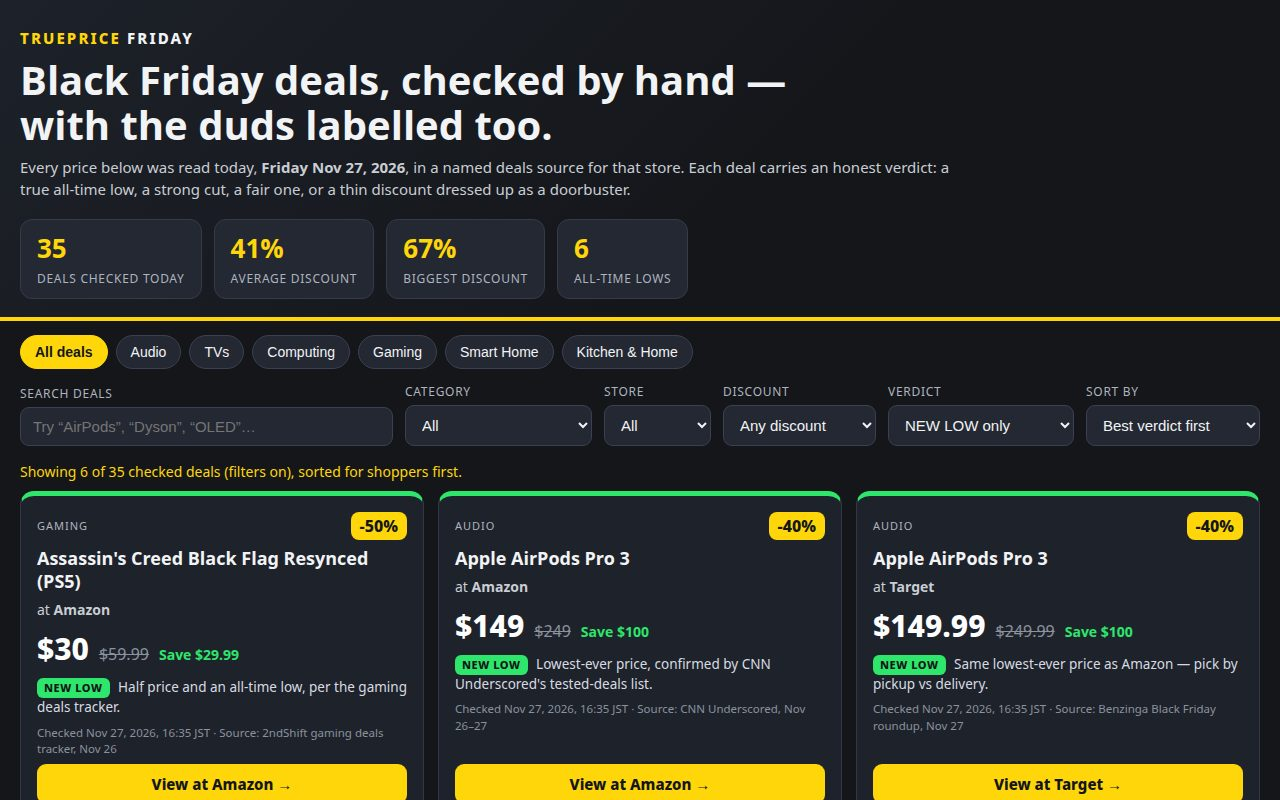
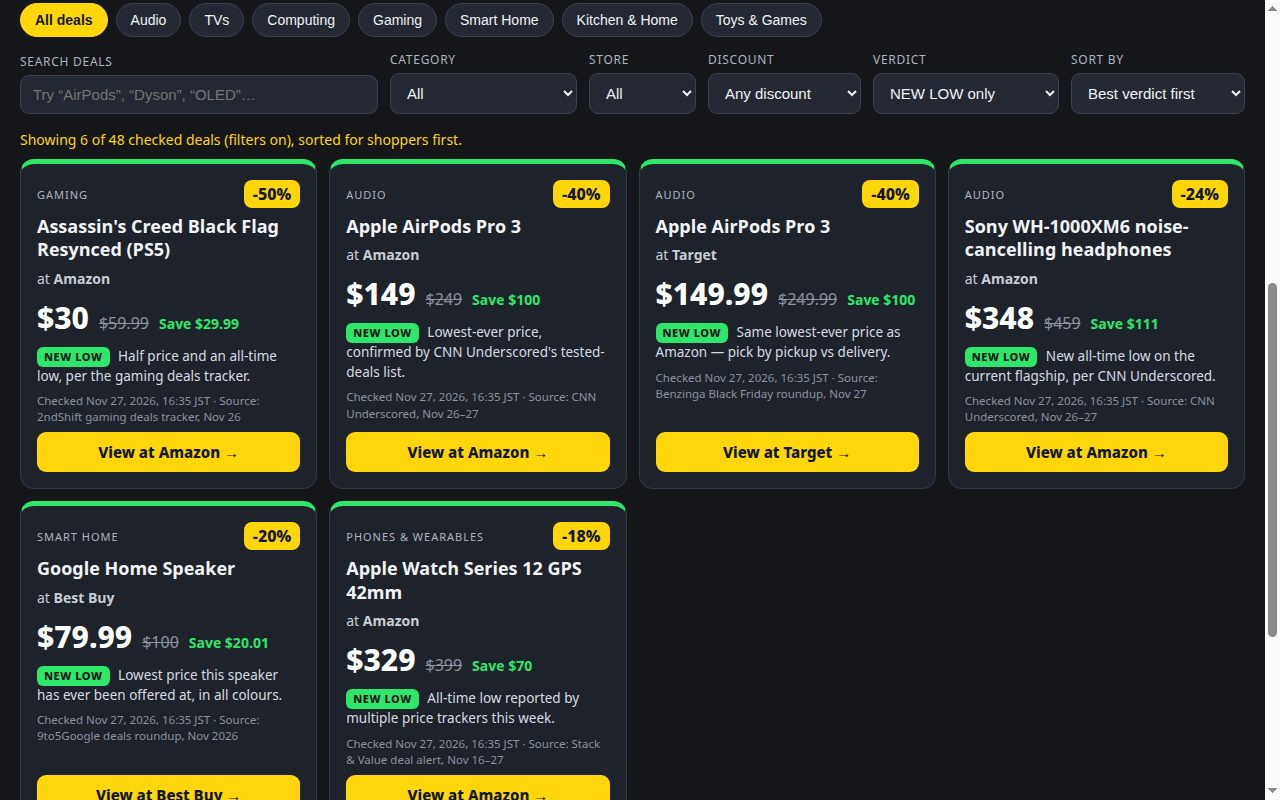
v2 weekend edition: 48 deals (13 re-checked Nov 28), featured top-cuts strip, compact hero, Toys & Games, Cyber Monday note

diff --git a/app/deals.js b/app/deals.js
@@ -5,6 +5,7 @@
 // verdict: "new-low" | "strong" | "fair" | "weak" — see logic.js for labels.
 
 export const CHECKED_AT = "Nov 27, 2026, 16:35 JST";
+export const CHECKED_AT_V2 = "Nov 28, 2026, 12:20 JST";
 
 export const DEALS = [
   { name: "Beats Studio Pro wireless headphones", store: "Walmart", cat: "Audio",
@@ -182,4 +183,71 @@ export const DEALS = [
     why: "$205 off the benchmark home espresso machine.",
     url: "https://www.amazon.com/s?k=Breville+Barista+Express",
     source: "Popular Science Amazon BF roundup, Nov 24–27" },
+  // ---- v2 additions: re-checked Nov 28, 2026 (Black Friday weekend /
+  // Cyber Monday run-up) in the sources named on each card. ----
+  { name: "Hisense 98-inch QD5 4K TV", store: "Best Buy", cat: "TVs",
+    price: 799.99, was: 2499.99, verdict: "strong", checked: "v2",
+    why: "68% off — a wall-sized 98-inch set under $800; Best Buy's loudest doorbuster, ends today Nov 28.",
+    url: "https://www.bestbuy.com/site/searchpage.jsp?st=Hisense+98+inch+QD5",
+    source: "The Shortcut BF deals list, checked Nov 27" },
+  { name: "Amazon Fire TV Stick 4K", store: "Amazon", cat: "Smart Home",
+    price: 19.99, was: 59.99, verdict: "strong", checked: "v2",
+    why: "67% off — the cheapest 4K streamer we verified all weekend.",
+    url: "https://www.amazon.com/s?k=Fire+TV+Stick+4K",
+    source: "The Shortcut BF deals list, checked Nov 27" },
+  { name: "Samsung Galaxy S26 Ultra 256GB", store: "Amazon", cat: "Phones & Wearables",
+    price: 949.99, was: 1399.99, verdict: "strong", checked: "v2",
+    why: "$450 off the flagship Ultra with no trade-in — the biggest phone saving we verified.",
+    url: "https://www.amazon.com/s?k=Samsung+Galaxy+S26+Ultra+256GB",
+    source: "The Shortcut BF deals list, checked Nov 27" },
+  { name: "Amazon Echo Time smart clock", store: "Amazon", cat: "Smart Home",
+    price: 99.99, was: 199.99, verdict: "fair", checked: "v2",
+    why: "Half price, but Echo list prices were raised this year — $99.99 is good, not historic.",
+    url: "https://www.amazon.com/s?k=Amazon+Echo+Time",
+    source: "The Shortcut BF deals list, checked Nov 27" },
+  { name: "PlayStation DualSense Edge controller", store: "Amazon", cat: "Gaming",
+    price: 169, was: 199.99, verdict: "fair", checked: "v2",
+    why: "Only 15% off Sony's pro controller — real, but it has matched this before.",
+    url: "https://www.amazon.com/s?k=PlayStation+DualSense+Edge",
+    source: "The Shortcut BF deals list, checked Nov 27" },
+  { name: "Amazon Echo Studio smart speaker", store: "Amazon", cat: "Smart Home",
+    price: 159.99, was: 219.99, verdict: "fair", checked: "v2",
+    why: "27% off Amazon's best-sounding Echo; a solid price, not a floor price.",
+    url: "https://www.amazon.com/s?k=Amazon+Echo+Studio",
+    source: "The Shortcut BF deals list, checked Nov 27" },
+  { name: "Meta Quest 3S 128GB VR headset", store: "Walmart", cat: "Gaming",
+    price: 297, was: 349.99, verdict: "fair", checked: "v2",
+    why: "15% off — modest for a headset; Best Buy's 256GB bundle with a gift card may beat it.",
+    url: "https://www.walmart.com/search?q=Meta+Quest+3S+128GB",
+    source: "The Shortcut BF deals list, checked Nov 27" },
+  { name: "Apple iPad 11-inch (A16, 128GB)", store: "Amazon", cat: "Phones & Wearables",
+    price: 379, was: 449, verdict: "fair", checked: "v2",
+    why: "16% off the entry iPad — Apple tablets rarely go deeper outside education pricing.",
+    url: "https://www.amazon.com/s?k=Apple+iPad+11+inch+A16+128GB",
+    source: "AppleScoop buy-or-wait guide, Nov 2026" },
+  { name: "Apple AirTag (2nd gen) 4-pack", store: "Amazon", cat: "Phones & Wearables",
+    price: 79, was: 99, verdict: "fair", checked: "v2",
+    why: "20% off — $19.75 per tracker; singles deals at $18 beat it per unit if you need one.",
+    url: "https://www.amazon.com/s?k=Apple+AirTag+4+pack",
+    source: "AppleScoop buy-or-wait guide, Nov 2026" },
+  { name: "Stanley Quencher H2.0 40 oz tumbler (Rose Quartz)", store: "Amazon", cat: "Kitchen & Home",
+    price: 22.50, was: 45, verdict: "strong", checked: "v2",
+    why: "Exactly half price on the viral 40 oz tumbler, in the Rose Quartz colour.",
+    url: "https://www.amazon.com/s?k=Stanley+Quencher+H2.0+40+oz+Rose+Quartz",
+    source: "PostThisDeal verified picks, Nov 27" },
+  { name: "LEGO Bluey: Bluey's Beach set", store: "Walmart", cat: "Toys & Games",
+    price: 15, was: 30, verdict: "strong", checked: "v2",
+    why: "Half price on a current LEGO set — LEGO's own store rarely matches Walmart here.",
+    url: "https://www.walmart.com/search?q=LEGO+Bluey+Blueys+Beach",
+    source: "Passionate Penny Pincher BF roundup, Nov 27" },
+  { name: "Razor RipRider 360 trike", store: "Walmart", cat: "Toys & Games",
+    price: 48, was: 130, verdict: "strong", checked: "v2",
+    why: "63% off the caster trike — one of the deepest toy cuts we verified.",
+    url: "https://www.walmart.com/search?q=Razor+RipRider+360",
+    source: "Passionate Penny Pincher BF roundup, Nov 27" },
+  { name: "Ninja Creami ice cream maker", store: "Kohl's", cat: "Kitchen & Home",
+    price: 103.89, was: 250, verdict: "strong", checked: "v2",
+    why: "58% off at Kohl's — the viral ice-cream maker well under its usual $170 sale price.",
+    url: "https://www.kohls.com/search.jsp?search=Ninja+Creami",
+    source: "Passionate Penny Pincher BF roundup, Nov 27" },
 ];

diff --git a/app/style.css b/app/style.css
@@ -1,14 +1,24 @@
 /* style.css — TruePrice Friday: charcoal + signal yellow, big prices. */
 * { box-sizing: border-box; }
 body { margin: 0; font-family: "Avenir Next", "Segoe UI", system-ui, sans-serif; background: #14161a; color: #f2f3f5; }
-.hero { padding: 28px 20px 18px; background: linear-gradient(135deg, #1d2129 0%, #14161a 60%); border-bottom: 4px solid #ffd60a; }
+.hero { padding: 18px 20px 12px; background: linear-gradient(135deg, #1d2129 0%, #14161a 60%); border-bottom: 4px solid #ffd60a; }
 .brand { margin: 0; font-weight: 800; letter-spacing: .14em; color: #ffd60a; font-size: 15px; }
 .brand span { color: #f2f3f5; }
-.hero h1 { margin: 10px 0 8px; font-size: clamp(24px, 4.5vw, 40px); line-height: 1.12; max-width: 20em; }
-.sub { margin: 0; max-width: 62em; color: #c9cdd4; font-size: 15px; line-height: 1.5; }
-.stats { display: flex; flex-wrap: wrap; gap: 12px; margin-top: 18px; }
-.stat { background: #232833; border: 1px solid #343b49; border-radius: 12px; padding: 10px 16px; min-width: 130px; }
-.stat strong { display: block; font-size: 26px; color: #ffd60a; }
+.brand .edition { color: #14161a; background: #ffd60a; border-radius: 6px; padding: 2px 8px; letter-spacing: .05em; margin-left: 8px; }
+.hero h1 { margin: 8px 0 6px; font-size: clamp(23px, 4vw, 34px); line-height: 1.12; max-width: 24em; }
+.sub { margin: 0; max-width: 62em; color: #c9cdd4; font-size: 14px; line-height: 1.45; }
+.stats { display: flex; flex-wrap: wrap; gap: 10px; margin-top: 12px; }
+.stat { background: #232833; border: 1px solid #343b49; border-radius: 12px; padding: 7px 14px; min-width: 120px; }
+.stat strong { display: block; font-size: 23px; color: #ffd60a; }
+.featured { padding: 14px 20px 4px; }
+.feat-head { margin: 0 0 10px; font-size: 19px; color: #ffd60a; letter-spacing: .02em; }
+.feat-grid { display: grid; grid-template-columns: repeat(auto-fit, minmax(280px, 1fr)); gap: 12px; }
+.feat { background: linear-gradient(160deg, #2a2113 0%, #1e222b 55%); border: 2px solid #ffd60a; border-radius: 14px; padding: 14px 16px; display: flex; flex-direction: column; gap: 6px; }
+.feat-top { display: flex; justify-content: space-between; align-items: center; }
+.feat-name { margin: 0; font-size: 19px; line-height: 1.25; }
+.feat .now { font-size: 34px; }
+.feat .go { margin-top: auto; }
+.cm-note { margin: 12px 0 2px; font-size: 13.5px; color: #c9cdd4; line-height: 1.5; background: #1e222b; border: 1px dashed #ffd60a; border-radius: 10px; padding: 10px 14px; }
 .stat span { font-size: 12px; color: #aeb4bf; text-transform: uppercase; letter-spacing: .06em; }
 .chips { display: flex; flex-wrap: wrap; gap: 8px; padding: 14px 20px 0; }
 .chips button { background: #232833; color: #f2f3f5; border: 1px solid #3a4152; border-radius: 999px; padding: 8px 14px; font-size: 14px; cursor: pointer; }
@@ -19,7 +29,7 @@ body { margin: 0; font-family: "Avenir Next", "Segoe UI", system-ui, sans-serif;
 .controls .search-label { flex: 1 1 240px; }
 .controls input, .controls select { background: #232833; color: #f2f3f5; border: 1px solid #3a4152; border-radius: 9px; padding: 10px 12px; font-size: 15px; text-transform: none; letter-spacing: 0; }
 .result-line { padding: 0 20px; color: #ffd60a; font-size: 14px; margin: 2px 0 10px; }
-.grid { display: grid; grid-template-columns: repeat(auto-fill, minmax(300px, 1fr)); gap: 14px; padding: 0 20px 20px; }
+.grid { display: grid; grid-template-columns: repeat(auto-fill, minmax(272px, 1fr)); gap: 12px; padding: 0 20px 20px; }
 .card { background: #1e222b; border: 1px solid #313847; border-top: 5px solid #6b7280; border-radius: 14px; padding: 16px; display: flex; flex-direction: column; gap: 7px; }
 .card.verdict-new-low { border-top-color: #2ee66b; }
 .card.verdict-strong { border-top-color: #38bdf8; }
@@ -51,6 +61,7 @@ body { margin: 0; font-family: "Avenir Next", "Segoe UI", system-ui, sans-serif;
 footer { padding: 0 20px 26px; color: #6f7684; font-size: 12px; }
 @media (max-width: 560px) {
   .grid { grid-template-columns: 1fr; padding: 0 12px 14px; }
+  .featured { padding: 12px 12px 2px; }
   .controls, .chips, .hero { padding-left: 12px; padding-right: 12px; }
   .guide { margin: 6px 12px 14px; }
   .now { font-size: 27px; }

diff --git a/app/index.html b/app/index.html
@@ -3,16 +3,22 @@
 <head>
 <meta charset="utf-8">
 <meta name="viewport" content="width=device-width, initial-scale=1">
-<title>TruePrice Friday — Real Black Friday Deals, Checked Nov 27, 2026</title>
+<title>TruePrice Friday — Real Black Friday Deals, Checked Nov 27–28, 2026</title>
 <link rel="stylesheet" href="./style.css">
 </head>
 <body>
 <header class="hero">
-  <p class="brand">TRUEPRICE <span>FRIDAY</span></p>
+  <p class="brand">TRUEPRICE <span>FRIDAY</span> <span class="edition">WEEKEND EDITION — UPDATED SAT NOV 28</span></p>
   <h1>Black Friday deals, checked by hand — with the duds labelled too.</h1>
-  <p class="sub">Every price below was read today, <strong>Friday Nov 27, 2026</strong>, in a named deals source for that store. Each deal carries an honest verdict: a true all-time low, a strong cut, a fair one, or a thin discount dressed up as a doorbuster.</p>
+  <p class="sub">Every price was read on <strong>Nov 27–28, 2026</strong> in a named deals source for that store. Each deal carries an honest verdict: a true all-time low, a strong cut, a fair one, or a thin discount dressed up as a doorbuster.</p>
   <div class="stats" id="stats"></div>
 </header>
+
+<section class="featured" aria-label="Top verified deals">
+  <h2 class="feat-head">★ Top verified cuts right now</h2>
+  <div class="feat-grid" id="featured"></div>
+  <p class="cm-note">Cyber Monday is <strong>Monday Nov 30</strong>: most prices below run through the weekend, and Amazon, Walmart and Best Buy drop fresh online-only deals at midnight — re-check the store link on each card before you pay.</p>
+</section>
 
 <nav class="chips" aria-label="Categories">
   <button data-cat="All">All deals</button>
@@ -22,6 +28,7 @@
   <button data-cat="Gaming">Gaming</button>
   <button data-cat="Smart Home">Smart Home</button>
   <button data-cat="Kitchen &amp; Home">Kitchen &amp; Home</button>
+  <button data-cat="Toys &amp; Games">Toys &amp; Games</button>
 </nav>
 
 <section class="controls" aria-label="Search and filters">
@@ -68,7 +75,7 @@
     <p><span class="badge b-fair">FAIR</span> A genuine saving, but similar prices recur through the year.</p>
     <p><span class="badge b-weak">THIN DEAL</span> The percentage looks loud but the saving is small — read the evidence before buying.</p>
   </div>
-  <p class="fineprint">Prices checked Nov 27, 2026, 16:35 JST from the source named on each card (CNN Underscored, Benzinga, Popular Science, Best Buy's Black Friday release, 9to5Google, UltraGamerZ, 2ndShift, Tom's Guide roundups). Black Friday prices move hourly — the store link on each card opens that store's own search for the product so you can confirm the live price before paying. Cyber Monday is Nov 30, 2026; several of these prices run through then.</p>
+  <p class="fineprint">Prices checked Nov 27, 2026, 16:35 JST and Nov 28, 2026, 12:20 JST from the source named on each card (CNN Underscored, Benzinga, Popular Science, Best Buy's Black Friday release, 9to5Google, UltraGamerZ, 2ndShift, Tom's Guide roundups, The Shortcut, AppleScoop, PostThisDeal, Passionate Penny Pincher). Black Friday prices move hourly — the store link on each card opens that store's own search for the product so you can confirm the live price before paying. Cyber Monday is Nov 30, 2026; several of these prices run through then.</p>
 </section>
 
 <footer>TruePrice Friday — an original, hand-checked deal finder. No prices are scraped live; each was verified by a person (and an agent) on the day shown.</footer>

diff --git a/app/render.js b/app/render.js
@@ -2,7 +2,7 @@
 // All text is built from deals.js data; nothing is fetched.
 
 import { VERDICTS, discountPct, savingUsd, formatUsd } from "./logic.js";
-import { CHECKED_AT } from "./deals.js";
+import { CHECKED_AT, CHECKED_AT_V2 } from "./deals.js";
 
 function esc(s) {
   return String(s).replace(/&/g, "&amp;").replace(/</g, "&lt;").replace(/"/g, "&quot;");
@@ -24,9 +24,24 @@ export function dealCard(deal) {
       <span class="save">Save ${formatUsd(savingUsd(deal))}</span>
     </p>
     <p class="verdict"><span class="badge">${v.label}</span> ${esc(deal.why)}</p>
-    <p class="meta">Checked ${CHECKED_AT} · Source: ${esc(deal.source)}</p>
+    <p class="meta">Checked ${deal.checked === "v2" ? CHECKED_AT_V2 : CHECKED_AT} · Source: ${esc(deal.source)}</p>
     <a class="go" href="${esc(deal.url)}" target="_blank" rel="noopener">View at ${esc(deal.store)} →</a>
   </article>`;
+}
+
+// The three loudest verified cuts, shown as a featured strip above the
+// grid so the first screen carries real deals, not just a headline.
+export function featuredStrip(deals) {
+  const top = deals
+    .filter((d) => d.verdict === "new-low" || d.verdict === "strong")
+    .sort((a, b) => discountPct(b) - discountPct(a))
+    .slice(0, 3);
+  return top.map((deal) => `<article class="feat">
+    <div class="feat-top"><span class="cat">${esc(deal.cat)} · ${esc(deal.store)}</span><span class="off">-${discountPct(deal)}%</span></div>
+    <h3 class="feat-name">${esc(deal.name)}</h3>
+    <p class="prices"><span class="now">${formatUsd(deal.price)}</span> <span class="was">${formatUsd(deal.was)}</span></p>
+    <a class="go" href="${esc(deal.url)}" target="_blank" rel="noopener">View at ${esc(deal.store)} →</a>
+  </article>`).join("");
 }
 
 export function statsBar(stats) {

diff --git a/app/main.js b/app/main.js
@@ -4,7 +4,7 @@
 
 import { DEALS } from "./deals.js";
 import { categoriesOf, storesOf, filterDeals, sortDeals, summarise } from "./logic.js";
-import { dealCard, statsBar, resultLine } from "./render.js";
+import { dealCard, statsBar, resultLine, featuredStrip } from "./render.js";
 
 const state = { query: "", category: "All", store: "All", minDiscount: 0, verdict: "All", sort: "discount" };
 
@@ -32,6 +32,7 @@ function render() {
   const active = state.query || state.category !== "All" || state.store !== "All" || state.minDiscount > 0 || state.verdict !== "All";
   document.getElementById("result-line").textContent = resultLine(filtered.length, DEALS.length, active);
   document.getElementById("stats").innerHTML = statsBar(summarise(DEALS));
+  document.getElementById("featured").innerHTML = featuredStrip(DEALS);
 }
 
 function bind() {

diff --git a/README.md b/README.md
@@ -6,7 +6,7 @@
 
 Bounty: https://make.fun/bounty/black-friday-deal-finder-01
 
-An original, hand-checked Black Friday deal finder. Every one of its 35 deals was found and price-checked on **Friday, Nov 27, 2026** in a named deals source for its store (CNN Underscored, Benzinga, Popular Science, Best Buy's Black Friday release, 9to5Google, UltraGamerZ, 2ndShift, Tom's Guide roundups). Each card shows the product, store, sale price, usual price, discount %, dollar saving, the time the price was checked, the source it was read in, a link to that store, and an honest verdict — **NEW LOW**, **STRONG DEAL**, **FAIR**, or **THIN DEAL** — with the evidence for the verdict on the card.
+An original, hand-checked Black Friday deal finder. Every one of its 48 deals was found and price-checked on **Nov 27–28, 2026** in a named deals source for its store (CNN Underscored, Benzinga, Popular Science, Best Buy's Black Friday release, 9to5Google, UltraGamerZ, 2ndShift, Tom's Guide roundups, The Shortcut, AppleScoop, PostThisDeal, Passionate Penny Pincher). The weekend edition adds a featured top-cuts strip, a Toys & Games category and a Cyber Monday note. Each card shows the product, store, sale price, usual price, discount %, dollar saving, the time the price was checked, the source it was read in, a link to that store, and an honest verdict — **NEW LOW**, **STRONG DEAL**, **FAIR**, or **THIN DEAL** — with the evidence for the verdict on the card.
 
 ## Features
 
